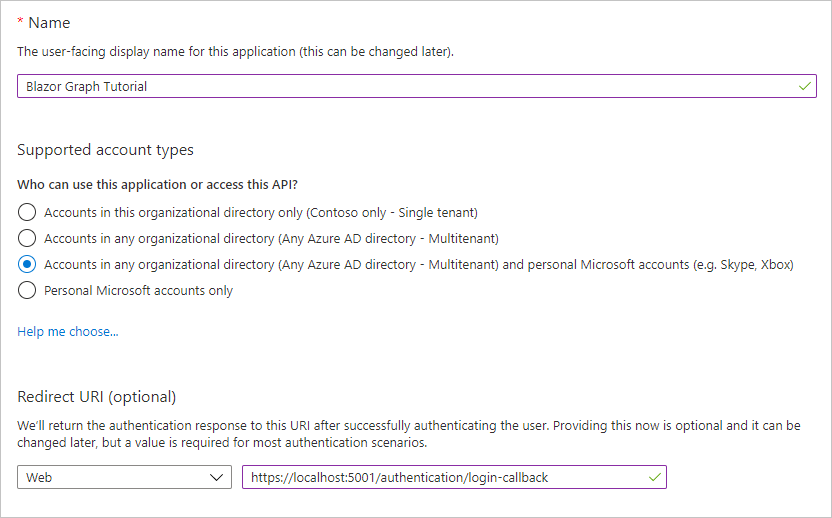
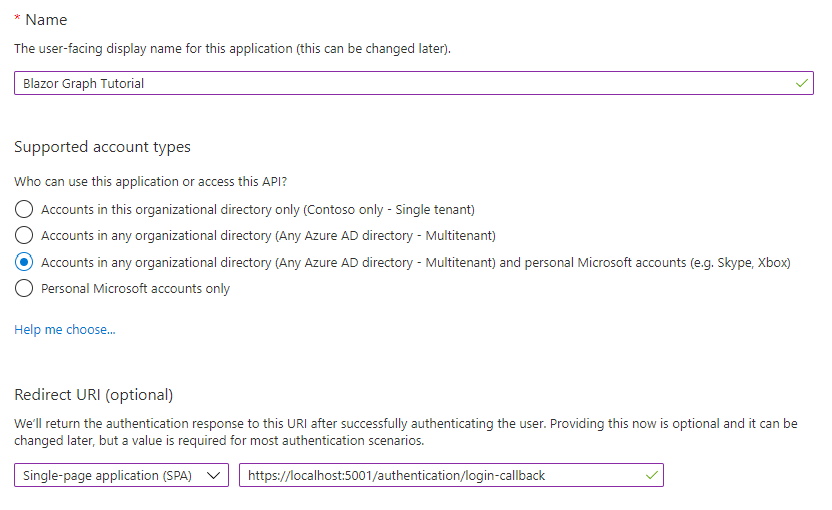
Recreated with .NET 5 and Graph SDK v4

diff --git a/demo/GraphTutorial/wwwroot/css/app.css b/demo/GraphTutorial/wwwroot/css/app.css
@@ -1,4 +1,4 @@
-@import url('open-iconic/font/css/open-iconic-bootstrap.min.css');
+@import url('open-iconic/font/css/open-iconic-bootstrap.min.css');
 
 html, body {
     font-family: 'Helvetica Neue', Helvetica, Arial, sans-serif;
@@ -14,95 +14,8 @@ a, .btn-link {
     border-color: #1861ac;
 }
 
-app {
-    position: relative;
-    display: flex;
-    flex-direction: column;
-}
-
-.top-row {
-    height: 3.5rem;
-    display: flex;
-    align-items: center;
-}
-
-.main {
-    flex: 1;
-}
-
-    .main .top-row {
-        background-color: #f7f7f7;
-        border-bottom: 1px solid #d6d5d5;
-        justify-content: flex-end;
-    }
-
-        .main .top-row > a, .main .top-row .btn-link {
-            white-space: nowrap;
-            margin-left: 1.5rem;
-        }
-
-.main .top-row a:first-child {
-    overflow: hidden;
-    text-overflow: ellipsis;
-}
-
-.sidebar {
-    background-image: linear-gradient(180deg, rgb(5, 39, 103) 0%, #3a0647 70%);
-}
-
-    .sidebar .top-row {
-        background-color: rgba(0,0,0,0.4);
-    }
-
-    .sidebar .navbar-brand {
-        font-size: 1.1rem;
-    }
-
-    .sidebar .oi {
-        width: 2rem;
-        font-size: 1.1rem;
-        vertical-align: text-top;
-        top: -2px;
-    }
-
-    .sidebar .nav-item {
-        font-size: 0.9rem;
-        padding-bottom: 0.5rem;
-    }
-
-        .sidebar .nav-item:first-of-type {
-            padding-top: 1rem;
-        }
-
-        .sidebar .nav-item:last-of-type {
-            padding-bottom: 1rem;
-        }
-
-        .sidebar .nav-item a {
-            color: #d7d7d7;
-            border-radius: 4px;
-            height: 3rem;
-            display: flex;
-            align-items: center;
-            line-height: 3rem;
-        }
-
-            .sidebar .nav-item a.active {
-                background-color: rgba(255,255,255,0.25);
-                color: white;
-            }
-
-            .sidebar .nav-item a:hover {
-                background-color: rgba(255,255,255,0.1);
-                color: white;
-            }
-
 .content {
     padding-top: 1.1rem;
-}
-
-.navbar-toggler {
-    background-color: rgba(255, 255, 255, 0.1);
 }
 
 .valid.modified:not([type=checkbox]) {
@@ -129,61 +42,15 @@ app {
     z-index: 1000;
 }
 
-#blazor-error-ui .dismiss {
-    cursor: pointer;
-    position: absolute;
-    right: 0.75rem;
-    top: 0.5rem;
-}
+    #blazor-error-ui .dismiss {
+        cursor: pointer;
+        position: absolute;
+        right: 0.75rem;
+        top: 0.5rem;
+    }
 
 /* <CssSnippet> */
 .nav-profile-photo {
     width: 36px;
 }
 /* </CssSnippet> */
-
-@media (max-width: 767.98px) {
-    .main .top-row:not(.auth) {
-        display: none;
-    }
-
-    .main .top-row.auth {
-        justify-content: space-between;
-    }
-
-    .main .top-row a, .main .top-row .btn-link {
-        margin-left: 0;
-    }
-}
-
-@media (min-width: 768px) {
-    app {
-        flex-direction: row;
-    }
-
-    .sidebar {
-        width: 250px;
-        height: 100vh;
-        position: sticky;
-        top: 0;
-    }
-
-    .main .top-row {
-        position: sticky;
-        top: 0;
-    }
-
-    .main > div {
-        padding-left: 2rem !important;
-        padding-right: 1.5rem !important;
-    }
-
-    .navbar-toggler {
-        display: none;
-    }
-
-    .sidebar .collapse {
-        /* Never collapse the sidebar for wide screens */
-        display: block;
-    }
-}

diff --git a/demo/GraphTutorial/wwwroot/index.html b/demo/GraphTutorial/wwwroot/index.html
@@ -8,10 +8,11 @@
     <base href="/" />
     <link href="css/bootstrap/bootstrap.min.css" rel="stylesheet" />
     <link href="css/app.css" rel="stylesheet" />
+    <link href="GraphTutorial.styles.css" rel="stylesheet" />
 </head>
 
 <body>
-    <app>Loading...</app>
+    <div id="app">Loading...</div>
 
     <div id="blazor-error-ui">
         An unhandled error has occurred.
@@ -24,11 +25,8 @@
     <script src="https://code.jquery.com/jquery-3.5.1.slim.min.js"
         integrity="sha384-DfXdz2htPH0lsSSs5nCTpuj/zy4C+OGpamoFVy38MVBnE+IbbVYUew+OrCXaRkfj"
         crossorigin="anonymous"></script>
-    <script src="https://cdn.jsdelivr.net/npm/popper.js@1.16.1/dist/umd/popper.min.js"
-        integrity="sha384-9/reFTGAW83EW2RDu2S0VKaIzap3H66lZH81PoYlFhbGU+6BZp6G7niu735Sk7lN"
-        crossorigin="anonymous"></script>
-    <script src="https://stackpath.bootstrapcdn.com/bootstrap/4.5.2/js/bootstrap.min.js"
-        integrity="sha384-B4gt1jrGC7Jh4AgTPSdUtOBvfO8shuf57BaghqFfPlYxofvL8/KUEfYiJOMMV+rV"
+    <script src="https://cdn.jsdelivr.net/npm/bootstrap@4.6.0/dist/js/bootstrap.bundle.min.js"
+        integrity="sha384-Piv4xVNRyMGpqkS2by6br4gNJ7DXjqk09RmUpJ8jgGtD7zP9yug3goQfGII0yAns"
         crossorigin="anonymous"></script>
     <!-- </BootStrapJSSnippet> -->
 </body>

diff --git a/demo/GraphTutorial/Shared/MainLayout.razor.css b/demo/GraphTutorial/Shared/MainLayout.razor.css
@@ -1,0 +1,70 @@
+.page {
+    position: relative;
+    display: flex;
+    flex-direction: column;
+}
+
+.main {
+    flex: 1;
+}
+
+.sidebar {
+    background-image: linear-gradient(180deg, rgb(5, 39, 103) 0%, #3a0647 70%);
+}
+
+.top-row {
+    background-color: #f7f7f7;
+    border-bottom: 1px solid #d6d5d5;
+    justify-content: flex-end;
+    height: 3.5rem;
+    display: flex;
+    align-items: center;
+}
+
+    .top-row ::deep a, .top-row .btn-link {
+        white-space: nowrap;
+        margin-left: 1.5rem;
+    }
+
+    .top-row a:first-child {
+        overflow: hidden;
+        text-overflow: ellipsis;
+    }
+
+@media (max-width: 640.98px) {
+    .top-row:not(.auth) {
+        display: none;
+    }
+
+    .top-row.auth {
+        justify-content: space-between;
+    }
+
+    .top-row a, .top-row .btn-link {
+        margin-left: 0;
+    }
+}
+
+@media (min-width: 641px) {
+    .page {
+        flex-direction: row;
+    }
+
+    .sidebar {
+        width: 250px;
+        height: 100vh;
+        position: sticky;
+        top: 0;
+    }
+
+    .top-row {
+        position: sticky;
+        top: 0;
+        z-index: 1;
+    }
+
+    .main > div {
+        padding-left: 2rem !important;
+        padding-right: 1.5rem !important;
+    }
+}

diff --git a/demo/GraphTutorial/Shared/NavMenu.razor.css b/demo/GraphTutorial/Shared/NavMenu.razor.css
@@ -1,0 +1,62 @@
+.navbar-toggler {
+    background-color: rgba(255, 255, 255, 0.1);
+}
+
+.top-row {
+    height: 3.5rem;
+    background-color: rgba(0,0,0,0.4);
+}
+
+.navbar-brand {
+    font-size: 1.1rem;
+}
+
+.oi {
+    width: 2rem;
+    font-size: 1.1rem;
+    vertical-align: text-top;
+    top: -2px;
+}
+
+.nav-item {
+    font-size: 0.9rem;
+    padding-bottom: 0.5rem;
+}
+
+    .nav-item:first-of-type {
+        padding-top: 1rem;
+    }
+
+    .nav-item:last-of-type {
+        padding-bottom: 1rem;
+    }
+
+    .nav-item ::deep a {
+        color: #d7d7d7;
+        border-radius: 4px;
+        height: 3rem;
+        display: flex;
+        align-items: center;
+        line-height: 3rem;
+    }
+
+.nav-item ::deep a.active {
+    background-color: rgba(255,255,255,0.25);
+    color: white;
+}
+
+.nav-item ::deep a:hover {
+    background-color: rgba(255,255,255,0.1);
+    color: white;
+}
+
+@media (min-width: 641px) {
+    .navbar-toggler {
+        display: none;
+    }
+
+    .collapse {
+        /* Never collapse the sidebar for wide screens */
+        display: block;
+    }
+}

diff --git a/demo/GraphTutorial/Program.cs b/demo/GraphTutorial/Program.cs
@@ -6,12 +6,12 @@ using System.Net.Http;
 using System.Collections.Generic;
 using System.Threading.Tasks;
 using System.Text;
+using GraphTutorial.Graph;
 using Microsoft.AspNetCore.Components.WebAssembly.Authentication;
 using Microsoft.AspNetCore.Components.WebAssembly.Hosting;
 using Microsoft.Extensions.Configuration;
 using Microsoft.Extensions.DependencyInjection;
 using Microsoft.Extensions.Logging;
-using GraphTutorial.Graph;
 
 namespace GraphTutorial
 {
@@ -20,7 +20,7 @@ namespace GraphTutorial
         public static async Task Main(string[] args)
         {
             var builder = WebAssemblyHostBuilder.CreateDefault(args);
-            builder.RootComponents.Add<App>("app");
+            builder.RootComponents.Add<App>("#app");
 
             // <HttpClientSnippet>
             // HttpClient for passing into GraphServiceClient constructor

diff --git a/tutorial/02-create-app.md b/tutorial/02-create-app.md
@@ -19,7 +19,7 @@ Start by creating a Blazor WebAssembly app.
 1. Open your browser and browse to `https://localhost:5001`. If everything is working, you should see a "Hello, world!" message.
 
 > [!IMPORTANT]
-> If you receive a warning that the certificate for **localhost** is un-trusted you can use the .NET Core CLI to install and trust the development certificate. See [Enforce HTTPS in ASP.NET Core](/aspnet/core/security/enforcing-ssl?view=aspnetcore-3.1) for instructions for specific operating systems.
+> If you receive a warning that the certificate for **localhost** is un-trusted you can use the .NET Core CLI to install and trust the development certificate. See [Enforce HTTPS in ASP.NET Core](/aspnet/core/security/enforcing-ssl) for instructions for specific operating systems.
 
 ## Add NuGet packages
 
@@ -31,7 +31,7 @@ Before moving on, install some additional NuGet packages that you will use later
 1. Run the following commands in your CLI to install the dependencies.
 
     ```Shell
-    dotnet add package Microsoft.Graph --version 3.18.0
+    dotnet add package Microsoft.Graph --version 4.0.0
     dotnet add package TimeZoneConverter
     ```
 

diff --git a/tutorial/03-register-app.md b/tutorial/03-register-app.md
@@ -12,12 +12,10 @@ In this exercise, you will create a new Azure AD web application registration us
 
     - Set **Name** to `Blazor Graph Tutorial`.
     - Set **Supported account types** to **Accounts in any organizational directory and personal Microsoft accounts**.
-    - Under **Redirect URI**, set the first drop-down to `Web` and set the value to `https://localhost:5001/authentication/login-callback`.
+    - Under **Redirect URI**, set the first drop-down to **Single-page application (SPA)** and set the value to `https://localhost:5001/authentication/login-callback`.
 
     ![A screenshot of the Register an application page](./images/aad-register-an-app.png)
 
 1. Select **Register**. On the **Blazor Graph Tutorial** page, copy the value of the **Application (client) ID** and save it, you will need it in the next step.
 
     ![A screenshot of the application ID of the new app registration](./images/aad-application-id.png)
-
-1. Select **Authentication** under **Manage**. Locate the **Implicit grant** section and enable **Access tokens** and **ID tokens**. Select **Save**.

diff --git a/tutorial/01-intro.md b/tutorial/01-intro.md
@@ -15,7 +15,7 @@ You should also have either a personal Microsoft account with a mailbox on Outlo
 - You can [sign up for the Office 365 Developer Program](https://developer.microsoft.com/office/dev-program) to get a free Office 365 subscription.
 
 > [!NOTE]
-> This tutorial was written with .NET Core SDK version 3.1.402. The steps in this guide may work with other versions, but that has not been tested.
+> This tutorial was written with .NET Core SDK version 5.0.203. The steps in this guide may work with other versions, but that has not been tested.
 
 ## Feedback
 
